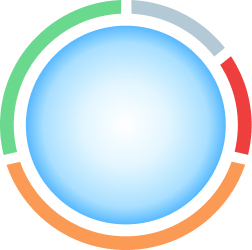
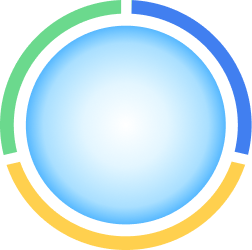
feat:仪表盘配色修改

Changed region(s): [[0.0278, 0.644, 0.9722, 1.0], [0.5, 0.0, 1.0, 0.616]]

diff --git a/src/ui/distribution/service-compare.tsx b/src/ui/distribution/service-compare.tsx
@@ -17,9 +17,8 @@ function buildGaugeOption(name: string, value: number): EChartsOption {
           lineStyle: {
             width: 30,
             color: [
-              [0.3, "#67e0e3"],
-              [0.7, "#37a2da"],
-              [1, "#fd666d"],
+              [0.8, "#008AFF"],
+              [1, "#25CEAA"],
             ],
           },
         },
